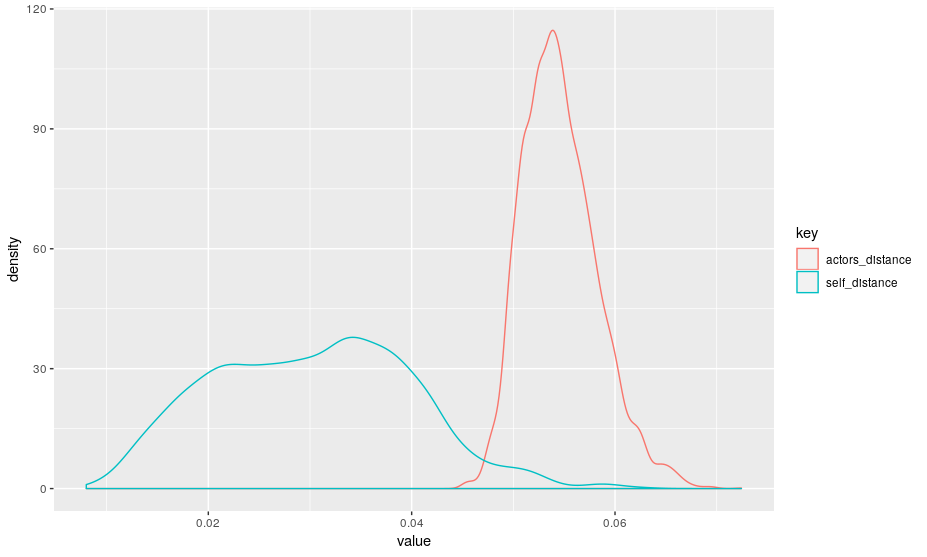
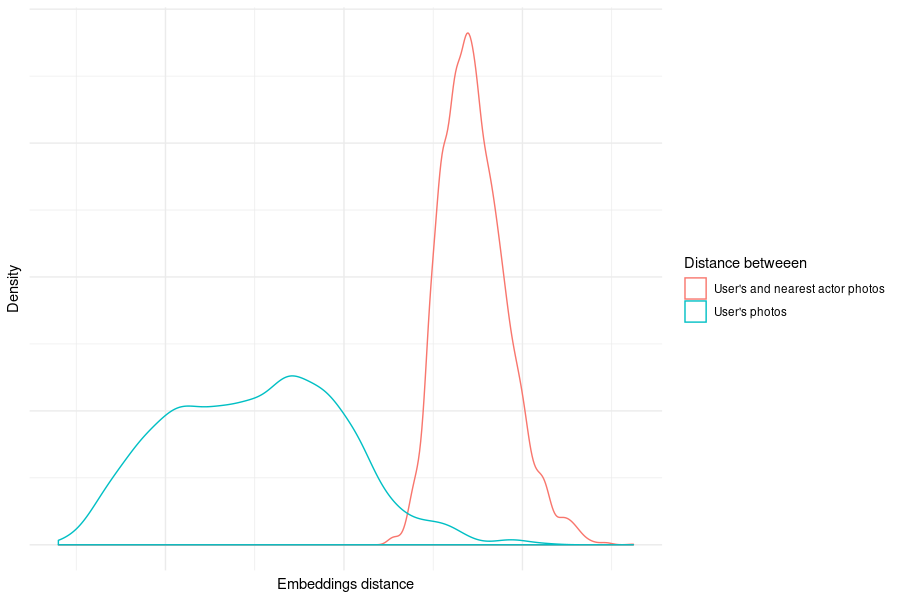
some readme changes, including new images

diff --git a/README.md b/README.md
@@ -2,11 +2,10 @@
 
 Have you ever thought which actor are you the most similar to? That's exactly what our app will tell you!
 
-> dodać fotkę dwóch osób podobnych i że dla jednego zwróciło drugie> // Pasz
-
+![](images/pjt.png)
 # Installation
 
-The app can be run locally on your own machine. Due to `face_recognition` package requirements macOS and Linux machines are supported.
+The app can be run locally on your own machine. Due to `face_recognition` package requirements macOS and Linux machines are supported, however you can try [this](https://github.com/ageitgey/face_recognition/issues/175#issue-257710508) on Windows.
 
 Local requirements:
 
@@ -40,7 +39,7 @@ By default app is available under `http://localhost:6113`
 
 After reaching proper URL, give the app permissions to your webcam. All you have to do now is to wait to see the results.
 
-On the bottom left webcam stream will be displayed with most similar actor's image and name above it. On the right there will be plot showing position of current embedding of captured face (with respect to the average).
+On the bottom left webcam stream will be displayed with most similar actor's image and name above it. On the right there will be plot showing position of current embedding of captured face (with respect to the average). Bottom plot shows general view, while top plot shows closer view on yours face "neighbors".
 
 On topmost left position there is "control center". The number in the box determines number of webcam frames that are averaged while searching the most similar actor's photo. By clicking the `Reset` button you can reset plot and averaging process.
 
@@ -76,8 +75,6 @@ Faces are compared with precomputed representations of predefined set of **4062*
 
 # Processing methodology
 
-[//]: # (nazwa do zmiany)
-
 ## Finding the most similar actor
 
 `face_recognition` package is capable of finding the most similar photo on the fly, but in our application we have to take some performance aspects into account. Based on info provided by package creators we've decided to use [KNN classifier](https://github.com/ageitgey/face_recognition/blob/master/examples/face_recognition_knn.py) for that purpose.
@@ -103,7 +100,13 @@ After that we've implemented averaging face embedding, which significantly impro
 
 ## Visualizing the results
 
-The embedding produced by `face_recognition` package is **128** dimensional vector. In order to investigate results we've decided to visualize this data after transforming with PCA. Algorithm was trained on all available photos, but only top 50 actors with the most photos are displayed.
+The embedding produced by `face_recognition` package is **128** dimensional vector. In order to investigate results we've decided to visualize this data after transforming with [PCA](https://en.wikipedia.org/wiki/Principal_component_analysis). Algorithm was trained on all available photos, but only top 50 actors with the most photos are displayed.
+
+Plots show only first and second principal components.
 
 One of the first things that can be seen is visible division of the photos into two clusters. After investigation it turns out that they are men and women (which is quite consistent).
 
+Red crosses represent your photos.
+At first glance it can be wierd that an algorithm returned not the nearest actor on a plot, but keep in mind that it's only projection of 128 dimensional space on 2D space.
+
+![](images/pca_wm.png)
